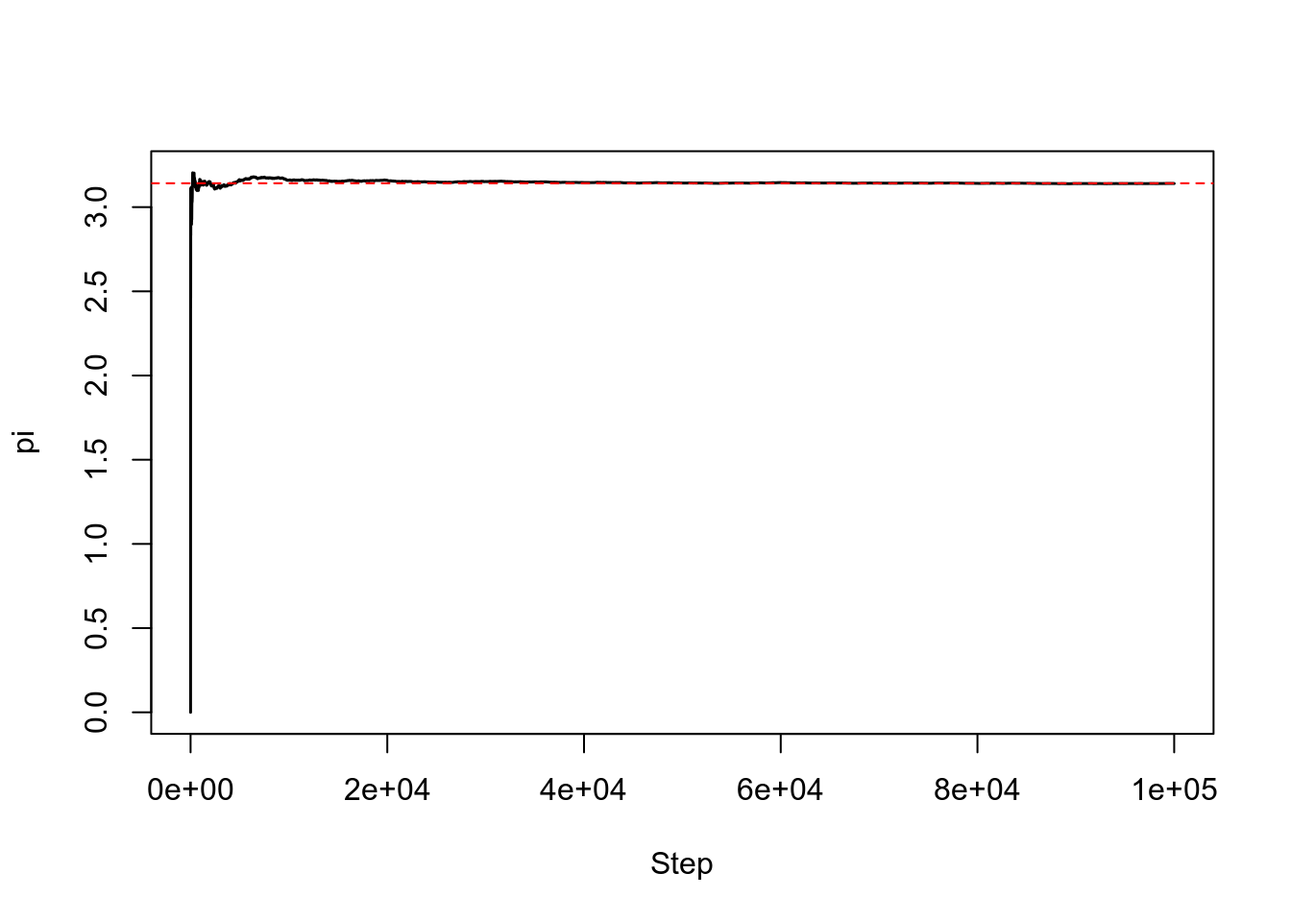
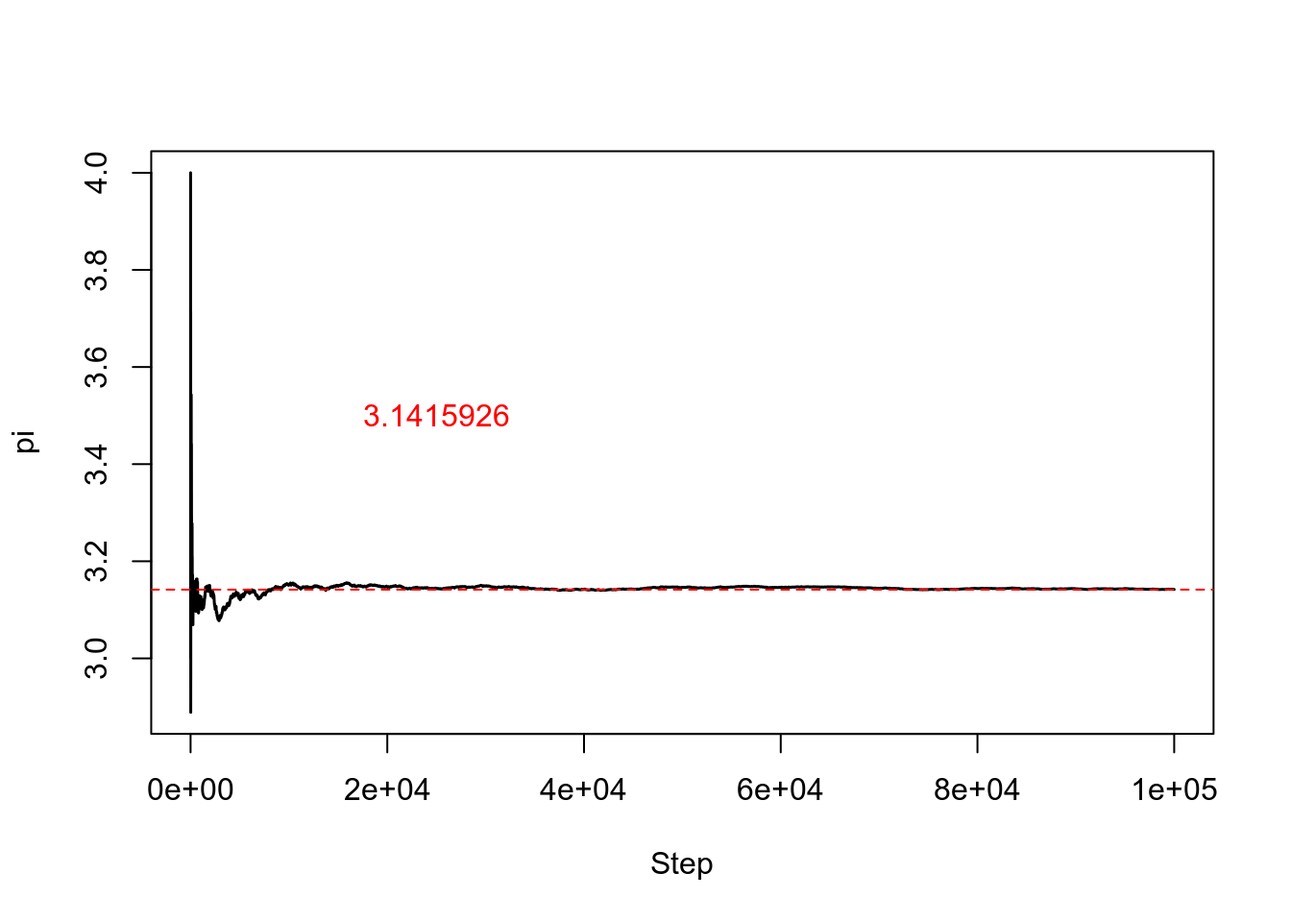
Update

diff --git a/docs/Section_02.html b/docs/Section_02.html
@@ -597,30 +597,39 @@ div.tocify {
 <div class="sourceCode" id="cb44"><pre class="sourceCode r"><code class="sourceCode r"><a class="sourceLine" id="cb44-1" data-line-number="1"><span class="co"># Print x</span></a>
 <a class="sourceLine" id="cb44-2" data-line-number="2">x</a></code></pre></div>
 <pre><code>## [1] 0.01</code></pre>
+<div class="sourceCode" id="cb46"><pre class="sourceCode r"><code class="sourceCode r"><a class="sourceLine" id="cb46-1" data-line-number="1"><span class="co"># Or use the function print()</span></a>
+<a class="sourceLine" id="cb46-2" data-line-number="2"><span class="kw">print</span>(x)</a></code></pre></div>
+<pre><code>## [1] 0.01</code></pre>
+<p>You can also assign a character to a variable</p>
+<div class="sourceCode" id="cb48"><pre class="sourceCode r"><code class="sourceCode r"><a class="sourceLine" id="cb48-1" data-line-number="1"><span class="co"># Print x</span></a>
+<a class="sourceLine" id="cb48-2" data-line-number="2">MyName &lt;-<span class="st"> &quot;SUSTech&quot;</span></a>
+<a class="sourceLine" id="cb48-3" data-line-number="3"><span class="co"># Or use the function print()</span></a>
+<a class="sourceLine" id="cb48-4" data-line-number="4"><span class="kw">print</span>(MyName)</a></code></pre></div>
+<pre><code>## [1] &quot;SUSTech&quot;</code></pre>
 <p>Look for the <strong>Environment</strong> window in the top right panel of RStudio, and you will see that <code>x</code> and its value have appeared. Our variable <code>x</code> can be used in place of a number in any calculation that expects a number:</p>
-<div class="sourceCode" id="cb46"><pre class="sourceCode r"><code class="sourceCode r"><a class="sourceLine" id="cb46-1" data-line-number="1"><span class="co"># Print x</span></a>
-<a class="sourceLine" id="cb46-2" data-line-number="2"><span class="kw">log10</span>(x)</a></code></pre></div>
+<div class="sourceCode" id="cb50"><pre class="sourceCode r"><code class="sourceCode r"><a class="sourceLine" id="cb50-1" data-line-number="1"><span class="co"># Print x</span></a>
+<a class="sourceLine" id="cb50-2" data-line-number="2"><span class="kw">log10</span>(x)</a></code></pre></div>
 <pre><code>## [1] -2</code></pre>
 <p>Notice also that variables can be reassigned:</p>
-<div class="sourceCode" id="cb48"><pre class="sourceCode r"><code class="sourceCode r"><a class="sourceLine" id="cb48-1" data-line-number="1"><span class="co"># Assignment</span></a>
-<a class="sourceLine" id="cb48-2" data-line-number="2">x &lt;-<span class="st"> </span><span class="dv">100</span></a></code></pre></div>
+<div class="sourceCode" id="cb52"><pre class="sourceCode r"><code class="sourceCode r"><a class="sourceLine" id="cb52-1" data-line-number="1"><span class="co"># Assignment</span></a>
+<a class="sourceLine" id="cb52-2" data-line-number="2">x &lt;-<span class="st"> </span><span class="dv">100</span></a></code></pre></div>
 <p><code>x</code> used to contain the value <code>0.01</code> and now it has the value <code>100</code>.</p>
 <p>Assignment values can contain the variable being assigned to:</p>
-<div class="sourceCode" id="cb49"><pre class="sourceCode r"><code class="sourceCode r"><a class="sourceLine" id="cb49-1" data-line-number="1"><span class="co"># Notice how RStudio updates its description of x on the top right tab</span></a>
-<a class="sourceLine" id="cb49-2" data-line-number="2">x &lt;-<span class="st"> </span>x <span class="op">+</span><span class="st"> </span><span class="dv">1</span> </a>
-<a class="sourceLine" id="cb49-3" data-line-number="3">y &lt;-<span class="st"> </span>x <span class="op">*</span><span class="st"> </span><span class="dv">2</span></a></code></pre></div>
+<div class="sourceCode" id="cb53"><pre class="sourceCode r"><code class="sourceCode r"><a class="sourceLine" id="cb53-1" data-line-number="1"><span class="co"># Notice how RStudio updates its description of x on the top right tab</span></a>
+<a class="sourceLine" id="cb53-2" data-line-number="2">x &lt;-<span class="st"> </span>x <span class="op">+</span><span class="st"> </span><span class="dv">1</span> </a>
+<a class="sourceLine" id="cb53-3" data-line-number="3">y &lt;-<span class="st"> </span>x <span class="op">*</span><span class="st"> </span><span class="dv">2</span></a></code></pre></div>
 <p>The right hand side of the assignment can be any valid R expression. The right hand side is <em>fully evaluated</em> before the assignment occurs.</p>
 <p>Variable names can contain letters, numbers, underscores and periods <strong>but no spaces</strong>. They must start with a letter or a period followed by a letter (they cannot start with a number nor an underscore). Variables begining with a period are hidden variables. Different people use different conventions for long variable names. Whatever you use is up to you, but be consistent.</p>
 </div>
 <div id="vectorization" class="section level2">
 <h2>Vectorization</h2>
-<p>One final thing to be aware of is that R is <em>vectorized</em>, meaning that variables and functions can have vectors as values. In contrast to physics and mathematics, a vector in R describes a set of values in a certain order of the same data type. For example</p>
-<div class="sourceCode" id="cb50"><pre class="sourceCode r"><code class="sourceCode r"><a class="sourceLine" id="cb50-1" data-line-number="1"><span class="dv">1</span><span class="op">:</span><span class="dv">10</span></a></code></pre></div>
+<p>One thing to be aware of is that R is <em>vectorized</em>, meaning that variables and functions can have vectors as values. In contrast to physics and mathematics, a vector in R describes a set of values in a certain order of the same data type. For example</p>
+<div class="sourceCode" id="cb54"><pre class="sourceCode r"><code class="sourceCode r"><a class="sourceLine" id="cb54-1" data-line-number="1"><span class="dv">1</span><span class="op">:</span><span class="dv">10</span></a></code></pre></div>
 <pre><code>##  [1]  1  2  3  4  5  6  7  8  9 10</code></pre>
-<div class="sourceCode" id="cb52"><pre class="sourceCode r"><code class="sourceCode r"><a class="sourceLine" id="cb52-1" data-line-number="1"><span class="dv">2</span><span class="op">^</span>(<span class="dv">1</span><span class="op">:</span><span class="dv">10</span>)</a></code></pre></div>
+<div class="sourceCode" id="cb56"><pre class="sourceCode r"><code class="sourceCode r"><a class="sourceLine" id="cb56-1" data-line-number="1"><span class="dv">2</span><span class="op">^</span>(<span class="dv">1</span><span class="op">:</span><span class="dv">10</span>)</a></code></pre></div>
 <pre><code>##  [1]    2    4    8   16   32   64  128  256  512 1024</code></pre>
-<div class="sourceCode" id="cb54"><pre class="sourceCode r"><code class="sourceCode r"><a class="sourceLine" id="cb54-1" data-line-number="1">x &lt;-<span class="st"> </span><span class="dv">1</span><span class="op">:</span><span class="dv">10</span></a>
-<a class="sourceLine" id="cb54-2" data-line-number="2"><span class="dv">2</span><span class="op">^</span>x</a></code></pre></div>
+<div class="sourceCode" id="cb58"><pre class="sourceCode r"><code class="sourceCode r"><a class="sourceLine" id="cb58-1" data-line-number="1">x &lt;-<span class="st"> </span><span class="dv">1</span><span class="op">:</span><span class="dv">10</span></a>
+<a class="sourceLine" id="cb58-2" data-line-number="2"><span class="dv">2</span><span class="op">^</span>x</a></code></pre></div>
 <pre><code>##  [1]    2    4    8   16   32   64  128  256  512 1024</code></pre>
 <p>This is incredibly powerful; we will discuss this further in an upcoming lesson.</p>
 </div>
@@ -628,13 +637,147 @@ div.tocify {
 <h2>Managing your environment</h2>
 <p>There are a few useful commands you can use to interact with the R session.</p>
 <p><code>ls</code> will list all of the variables and functions stored in the global environment (your working R session):</p>
-<div class="sourceCode" id="cb56"><pre class="sourceCode r"><code class="sourceCode r"><a class="sourceLine" id="cb56-1" data-line-number="1"><span class="kw">ls</span>()</a></code></pre></div>
-<pre><code>## [1] &quot;Results&quot;    &quot;Simulation&quot; &quot;TotalDraw&quot;  &quot;x&quot;          &quot;y&quot;</code></pre>
+<div class="sourceCode" id="cb60"><pre class="sourceCode r"><code class="sourceCode r"><a class="sourceLine" id="cb60-1" data-line-number="1"><span class="kw">ls</span>()</a></code></pre></div>
+<pre><code>## [1] &quot;MyName&quot;     &quot;Results&quot;    &quot;Simulation&quot; &quot;TotalDraw&quot;  &quot;x&quot;          &quot;y&quot;</code></pre>
 <p>Note here that we didn’t give any arguments to <code>ls</code>, but we still needed to give the parentheses to tell R to call the function.</p>
 <p>You can use <code>rm</code> to delete objects you no longer need:</p>
-<div class="sourceCode" id="cb58"><pre class="sourceCode r"><code class="sourceCode r"><a class="sourceLine" id="cb58-1" data-line-number="1"><span class="kw">rm</span>(x)</a>
-<a class="sourceLine" id="cb58-2" data-line-number="2"><span class="kw">ls</span>()</a></code></pre></div>
-<pre><code>## [1] &quot;Results&quot;    &quot;Simulation&quot; &quot;TotalDraw&quot;  &quot;y&quot;</code></pre>
+<div class="sourceCode" id="cb62"><pre class="sourceCode r"><code class="sourceCode r"><a class="sourceLine" id="cb62-1" data-line-number="1"><span class="kw">rm</span>(x)</a>
+<a class="sourceLine" id="cb62-2" data-line-number="2"><span class="kw">ls</span>()</a></code></pre></div>
+<pre><code>## [1] &quot;MyName&quot;     &quot;Results&quot;    &quot;Simulation&quot; &quot;TotalDraw&quot;  &quot;y&quot;</code></pre>
+</div>
+<div id="conditional-statements" class="section level2">
+<h2>Conditional statements</h2>
+<p>Often when we’re coding we want to control the flow of our actions. This can be done by setting actions to occur only if a condition or a set of conditions are met. Alternatively, we can also set an action to occur a particular number of times.</p>
+<p>There are several ways you can control flow in R. For conditional statements, the most commonly used approaches are the <code>if</code> and <code>else</code> constructs.</p>
+<div class="sourceCode" id="cb64"><pre class="sourceCode r"><code class="sourceCode r"><a class="sourceLine" id="cb64-1" data-line-number="1">x &lt;-<span class="st"> </span><span class="dv">5</span></a>
+<a class="sourceLine" id="cb64-2" data-line-number="2"></a>
+<a class="sourceLine" id="cb64-3" data-line-number="3"><span class="cf">if</span> (x <span class="op">&gt;=</span><span class="st"> </span><span class="dv">10</span>) { <span class="co"># If this condition is TRUE</span></a>
+<a class="sourceLine" id="cb64-4" data-line-number="4">  <span class="co"># Do following</span></a>
+<a class="sourceLine" id="cb64-5" data-line-number="5">  <span class="kw">print</span>(<span class="st">&quot;x is greater than or equal to 10&quot;</span>)</a>
+<a class="sourceLine" id="cb64-6" data-line-number="6">} <span class="co"># End of if statement</span></a>
+<a class="sourceLine" id="cb64-7" data-line-number="7"></a>
+<a class="sourceLine" id="cb64-8" data-line-number="8">x</a></code></pre></div>
+<pre><code>## [1] 5</code></pre>
+<p>The print statement does not appear in the console because <code>x</code> is not greater than <code>10</code>. To print a different message for numbers less than <code>10</code>, we can add an else statement.</p>
+<div class="sourceCode" id="cb66"><pre class="sourceCode r"><code class="sourceCode r"><a class="sourceLine" id="cb66-1" data-line-number="1">x &lt;-<span class="st"> </span><span class="dv">5</span></a>
+<a class="sourceLine" id="cb66-2" data-line-number="2"></a>
+<a class="sourceLine" id="cb66-3" data-line-number="3"><span class="cf">if</span> (x <span class="op">&gt;=</span><span class="st"> </span><span class="dv">10</span>) {</a>
+<a class="sourceLine" id="cb66-4" data-line-number="4">  <span class="kw">print</span>(<span class="st">&quot;x is greater than or equal to 10&quot;</span>)</a>
+<a class="sourceLine" id="cb66-5" data-line-number="5">} <span class="cf">else</span> {</a>
+<a class="sourceLine" id="cb66-6" data-line-number="6">  <span class="kw">print</span>(<span class="st">&quot;x is less than 10&quot;</span>)</a>
+<a class="sourceLine" id="cb66-7" data-line-number="7">}</a></code></pre></div>
+<pre><code>## [1] &quot;x is less than 10&quot;</code></pre>
+<p>You can also test multiple conditions by using <code>else if</code>.</p>
+<div class="sourceCode" id="cb68"><pre class="sourceCode r"><code class="sourceCode r"><a class="sourceLine" id="cb68-1" data-line-number="1">x &lt;-<span class="st"> </span><span class="dv">5</span></a>
+<a class="sourceLine" id="cb68-2" data-line-number="2"></a>
+<a class="sourceLine" id="cb68-3" data-line-number="3"><span class="cf">if</span> (x <span class="op">&gt;=</span><span class="st"> </span><span class="dv">10</span>) {</a>
+<a class="sourceLine" id="cb68-4" data-line-number="4">  <span class="kw">print</span>(<span class="st">&quot;x is greater than or equal to 10&quot;</span>)</a>
+<a class="sourceLine" id="cb68-5" data-line-number="5">} <span class="cf">else</span> <span class="cf">if</span> (x <span class="op">&gt;</span><span class="st"> </span><span class="dv">3</span>) {</a>
+<a class="sourceLine" id="cb68-6" data-line-number="6">  <span class="kw">print</span>(<span class="st">&quot;x is greater than 3, but less than 10&quot;</span>)</a>
+<a class="sourceLine" id="cb68-7" data-line-number="7">} <span class="cf">else</span> {</a>
+<a class="sourceLine" id="cb68-8" data-line-number="8">  <span class="kw">print</span>(<span class="st">&quot;x is less or equal than 3&quot;</span>)</a>
+<a class="sourceLine" id="cb68-9" data-line-number="9">}</a></code></pre></div>
+<pre><code>## [1] &quot;x is greater than 3, but less than 10&quot;</code></pre>
+<p><strong>Important</strong>: when R evaluates the condition inside <code>if()</code> statements, it is looking for a logical element, i.e., <code>TRUE</code> or <code>FALSE</code>. This can cause some headaches for beginners. For example:</p>
+<div class="sourceCode" id="cb70"><pre class="sourceCode r"><code class="sourceCode r"><a class="sourceLine" id="cb70-1" data-line-number="1">x  &lt;-<span class="st">  </span><span class="dv">4</span> <span class="op">==</span><span class="st"> </span><span class="dv">3</span></a>
+<a class="sourceLine" id="cb70-2" data-line-number="2"><span class="cf">if</span> (x) {</a>
+<a class="sourceLine" id="cb70-3" data-line-number="3">  <span class="st">&quot;4 equals 3&quot;</span></a>
+<a class="sourceLine" id="cb70-4" data-line-number="4">} <span class="cf">else</span> {</a>
+<a class="sourceLine" id="cb70-5" data-line-number="5">  <span class="st">&quot;4 does not equal 3&quot;</span>          </a>
+<a class="sourceLine" id="cb70-6" data-line-number="6">}</a></code></pre></div>
+<pre><code>## [1] &quot;4 does not equal 3&quot;</code></pre>
+</div>
+<div id="repeating-operations" class="section level2">
+<h2>Repeating operations</h2>
+<p>If you want to iterate over a set of values, when the order of iteration is important, and perform the same operation on each, a <code>for()</code> loop will do the job. This is the most flexible of looping operations, but therefore also the hardest to use correctly. In general, the advice of many R users would be to learn about <code>for()</code> loops, but to avoid using <code>for()</code> loops unless the order of iteration is important: i.e. the calculation at each iteration depends on the results of previous iterations.</p>
+<div class="sourceCode" id="cb72"><pre class="sourceCode r"><code class="sourceCode r"><a class="sourceLine" id="cb72-1" data-line-number="1"><span class="cf">for</span> (i <span class="cf">in</span> <span class="dv">1</span><span class="op">:</span><span class="dv">5</span>) { <span class="co"># If this condition is TRUE</span></a>
+<a class="sourceLine" id="cb72-2" data-line-number="2">  <span class="co"># Do following</span></a>
+<a class="sourceLine" id="cb72-3" data-line-number="3">  <span class="kw">print</span>(i)</a>
+<a class="sourceLine" id="cb72-4" data-line-number="4">} <span class="co"># End of the for loop</span></a></code></pre></div>
+<pre><code>## [1] 1
+## [1] 2
+## [1] 3
+## [1] 4
+## [1] 5</code></pre>
+<p>We can use a for() loop nested within another for() loop to iterate over two things at once.</p>
+<div class="sourceCode" id="cb74"><pre class="sourceCode r"><code class="sourceCode r"><a class="sourceLine" id="cb74-1" data-line-number="1"><span class="cf">for</span> (i <span class="cf">in</span> <span class="dv">1</span><span class="op">:</span><span class="dv">5</span>) {</a>
+<a class="sourceLine" id="cb74-2" data-line-number="2">  <span class="cf">for</span> (j <span class="cf">in</span> <span class="kw">c</span>(<span class="st">&#39;a&#39;</span>, <span class="st">&#39;b&#39;</span>, <span class="st">&#39;c&#39;</span>, <span class="st">&#39;d&#39;</span>, <span class="st">&#39;e&#39;</span>)) {</a>
+<a class="sourceLine" id="cb74-3" data-line-number="3">    <span class="kw">print</span>(<span class="kw">paste</span>(i,j))</a>
+<a class="sourceLine" id="cb74-4" data-line-number="4">  }</a>
+<a class="sourceLine" id="cb74-5" data-line-number="5">}</a></code></pre></div>
+<pre><code>## [1] &quot;1 a&quot;
+## [1] &quot;1 b&quot;
+## [1] &quot;1 c&quot;
+## [1] &quot;1 d&quot;
+## [1] &quot;1 e&quot;
+## [1] &quot;2 a&quot;
+## [1] &quot;2 b&quot;
+## [1] &quot;2 c&quot;
+## [1] &quot;2 d&quot;
+## [1] &quot;2 e&quot;
+## [1] &quot;3 a&quot;
+## [1] &quot;3 b&quot;
+## [1] &quot;3 c&quot;
+## [1] &quot;3 d&quot;
+## [1] &quot;3 e&quot;
+## [1] &quot;4 a&quot;
+## [1] &quot;4 b&quot;
+## [1] &quot;4 c&quot;
+## [1] &quot;4 d&quot;
+## [1] &quot;4 e&quot;
+## [1] &quot;5 a&quot;
+## [1] &quot;5 b&quot;
+## [1] &quot;5 c&quot;
+## [1] &quot;5 d&quot;
+## [1] &quot;5 e&quot;</code></pre>
+<p>We notice in the output that when the first index (<code>i</code>) is set to <code>1</code>, the second index (<code>j</code>) iterates through its full set of indices. Once the indices of <code>j</code> have been iterated through, then <code>i</code> is incremented. This process continues until the last index has been used for each <code>for()</code> loop.</p>
+<p>Rather than printing the results, we could write the loop output to a new object.</p>
+<div class="sourceCode" id="cb76"><pre class="sourceCode r"><code class="sourceCode r"><a class="sourceLine" id="cb76-1" data-line-number="1">output_vector &lt;-<span class="st"> </span><span class="kw">c</span>()</a>
+<a class="sourceLine" id="cb76-2" data-line-number="2"><span class="cf">for</span> (i <span class="cf">in</span> <span class="dv">1</span><span class="op">:</span><span class="dv">5</span>) {</a>
+<a class="sourceLine" id="cb76-3" data-line-number="3">  <span class="cf">for</span> (j <span class="cf">in</span> <span class="kw">c</span>(<span class="st">&#39;a&#39;</span>, <span class="st">&#39;b&#39;</span>, <span class="st">&#39;c&#39;</span>, <span class="st">&#39;d&#39;</span>, <span class="st">&#39;e&#39;</span>)) {</a>
+<a class="sourceLine" id="cb76-4" data-line-number="4">    temp_output &lt;-<span class="st"> </span><span class="kw">paste</span>(i, j)</a>
+<a class="sourceLine" id="cb76-5" data-line-number="5">    output_vector &lt;-<span class="st"> </span><span class="kw">c</span>(output_vector, temp_output)</a>
+<a class="sourceLine" id="cb76-6" data-line-number="6">  }</a>
+<a class="sourceLine" id="cb76-7" data-line-number="7">}</a>
+<a class="sourceLine" id="cb76-8" data-line-number="8">output_vector</a></code></pre></div>
+<pre><code>##  [1] &quot;1 a&quot; &quot;1 b&quot; &quot;1 c&quot; &quot;1 d&quot; &quot;1 e&quot; &quot;2 a&quot; &quot;2 b&quot; &quot;2 c&quot; &quot;2 d&quot; &quot;2 e&quot; &quot;3 a&quot; &quot;3 b&quot; &quot;3 c&quot; &quot;3 d&quot; &quot;3 e&quot; &quot;4 a&quot; &quot;4 b&quot; &quot;4 c&quot; &quot;4 d&quot; &quot;4 e&quot; &quot;5 a&quot; &quot;5 b&quot; &quot;5 c&quot; &quot;5 d&quot;
+## [25] &quot;5 e&quot;</code></pre>
+<p>This approach can be useful, but ‘growing your results’ (building the result object incrementally) is <strong>computationally inefficient</strong>, so avoid it when you are iterating through a lot of values. Here <code>c()</code> means “combine”:</p>
+<div class="sourceCode" id="cb78"><pre class="sourceCode r"><code class="sourceCode r"><a class="sourceLine" id="cb78-1" data-line-number="1">x &lt;-<span class="st"> </span><span class="dv">1</span></a>
+<a class="sourceLine" id="cb78-2" data-line-number="2">y &lt;-<span class="st"> </span><span class="dv">2</span></a>
+<a class="sourceLine" id="cb78-3" data-line-number="3">z &lt;-<span class="st"> </span><span class="kw">c</span>(x, y)</a>
+<a class="sourceLine" id="cb78-4" data-line-number="4">z</a></code></pre></div>
+<pre><code>## [1] 1 2</code></pre>
+<p><strong>Important</strong>: One of the biggest things that trips up novices and experienced R users alike, is building a results object (vector, list, matrix, data frame) as your for loop progresses. Computers are very bad at handling this, so your calculations can very quickly slow to a crawl. It’s much better to define an <strong>empty results</strong> object before hand of appropriate dimensions, rather than initializing an empty object without dimensions. So if you know the end result will be stored in a matrix like above, create an empty matrix with 5 row and 5 columns, then at each iteration store the results in the appropriate location.</p>
+<div class="sourceCode" id="cb80"><pre class="sourceCode r"><code class="sourceCode r"><a class="sourceLine" id="cb80-1" data-line-number="1">output_matrix &lt;-<span class="st"> </span><span class="kw">matrix</span>(<span class="dt">nrow=</span><span class="dv">5</span>, <span class="dt">ncol=</span><span class="dv">5</span>)</a>
+<a class="sourceLine" id="cb80-2" data-line-number="2">j_vector &lt;-<span class="st"> </span><span class="kw">c</span>(<span class="st">&#39;a&#39;</span>, <span class="st">&#39;b&#39;</span>, <span class="st">&#39;c&#39;</span>, <span class="st">&#39;d&#39;</span>, <span class="st">&#39;e&#39;</span>)</a>
+<a class="sourceLine" id="cb80-3" data-line-number="3"><span class="cf">for</span> (i <span class="cf">in</span> <span class="dv">1</span><span class="op">:</span><span class="dv">5</span>) {</a>
+<a class="sourceLine" id="cb80-4" data-line-number="4">  <span class="cf">for</span> (j <span class="cf">in</span> <span class="dv">1</span><span class="op">:</span><span class="dv">5</span>) {</a>
+<a class="sourceLine" id="cb80-5" data-line-number="5">    temp_j_value &lt;-<span class="st"> </span>j_vector[j]</a>
+<a class="sourceLine" id="cb80-6" data-line-number="6">    temp_output &lt;-<span class="st"> </span><span class="kw">paste</span>(i, temp_j_value)</a>
+<a class="sourceLine" id="cb80-7" data-line-number="7">    output_matrix[i, j] &lt;-<span class="st"> </span>temp_output</a>
+<a class="sourceLine" id="cb80-8" data-line-number="8">  }</a>
+<a class="sourceLine" id="cb80-9" data-line-number="9">}</a>
+<a class="sourceLine" id="cb80-10" data-line-number="10">output_vector2 &lt;-<span class="st"> </span><span class="kw">as.vector</span>(output_matrix)</a>
+<a class="sourceLine" id="cb80-11" data-line-number="11">output_vector2</a></code></pre></div>
+<pre><code>##  [1] &quot;1 a&quot; &quot;2 a&quot; &quot;3 a&quot; &quot;4 a&quot; &quot;5 a&quot; &quot;1 b&quot; &quot;2 b&quot; &quot;3 b&quot; &quot;4 b&quot; &quot;5 b&quot; &quot;1 c&quot; &quot;2 c&quot; &quot;3 c&quot; &quot;4 c&quot; &quot;5 c&quot; &quot;1 d&quot; &quot;2 d&quot; &quot;3 d&quot; &quot;4 d&quot; &quot;5 d&quot; &quot;1 e&quot; &quot;2 e&quot; &quot;3 e&quot; &quot;4 e&quot;
+## [25] &quot;5 e&quot;</code></pre>
+<p>Here we use <code>matrix()</code> to create an empty matrix with 5 rows and 5 columns, and use <code>as.vector()</code> to convert the 5x5 matrix into a vector.</p>
+<p>Sometimes you will find yourself needing to repeat an operation as long as a certain condition is met. You can do this with a <code>while()</code> loop.</p>
+<div class="sourceCode" id="cb82"><pre class="sourceCode r"><code class="sourceCode r"><a class="sourceLine" id="cb82-1" data-line-number="1">z &lt;-<span class="st"> </span><span class="dv">0</span></a>
+<a class="sourceLine" id="cb82-2" data-line-number="2"><span class="cf">while</span>(z <span class="op">&lt;=</span><span class="st"> </span><span class="dv">5</span> ){ <span class="co"># While this condition is TRUE</span></a>
+<a class="sourceLine" id="cb82-3" data-line-number="3">  <span class="co"># Do following</span></a>
+<a class="sourceLine" id="cb82-4" data-line-number="4">  z &lt;-<span class="st"> </span>z <span class="op">+</span><span class="st"> </span><span class="dv">1</span></a>
+<a class="sourceLine" id="cb82-5" data-line-number="5">  <span class="kw">print</span>(z)</a>
+<a class="sourceLine" id="cb82-6" data-line-number="6">} <span class="co"># End of the while loop</span></a></code></pre></div>
+<pre><code>## [1] 1
+## [1] 2
+## [1] 3
+## [1] 4
+## [1] 5
+## [1] 6</code></pre>
+<p>OK, can you figure out why the number <code>6</code> is also printed?</p>
+<p><code>while()</code> loops will not always be appropriate. You have to be <strong>particularly careful</strong> that you don’t end up stuck in an infinite loop because your condition is always met and hence the while statement never terminates.</p>
 </div>
 <div id="r-packages" class="section level2">
 <h2>R Packages</h2>
@@ -650,7 +793,11 @@ div.tocify {
 <p><img src="figs/packages.jpg" alt="drawing" width="800"/></p>
 <p>Clicking on this tab will displas all of installed packages with a checkbox next to them. If the box next to a package name is checked, the package is loaded and if it is empty, the package is not loaded. Click an empty box to load that package and click a checked box to detach that package.</p>
 <p>Packages can be installed and updated from the Package tab with the Install and Update buttons at the top of the tab.</p>
+<hr />
 </div>
+</div>
+<div id="in-class-exercises" class="section level1">
+<h1>In-class exercises</h1>
 </div>
 <div class="footnotes">
 <hr />

diff --git a/docs/Section_01.html b/docs/Section_01.html
@@ -710,7 +710,7 @@ div.tocify {
 <a class="sourceLine" id="cb2-7" data-line-number="7"><span class="kw">text</span>(<span class="fl">0.25</span><span class="op">*</span>TotalDraw,<span class="fl">3.5</span>,<span class="st">&quot;3.1415926&quot;</span>,<span class="dt">cex=</span><span class="dv">1</span>,<span class="dt">col=</span><span class="st">&quot;red&quot;</span>)</a></code></pre></div>
 <p><img src="Section_01_files/figure-html/unnamed-chunk-2-1.png" width="672" /></p>
 <div class="sourceCode" id="cb3"><pre class="sourceCode r"><code class="sourceCode r"><a class="sourceLine" id="cb3-1" data-line-number="1"><span class="kw">print</span>(<span class="kw">paste</span>(<span class="st">&quot;Mean Pi from the last 100 steps is: &quot;</span>,<span class="kw">mean</span>(Results[TotalDraw<span class="dv">-99</span><span class="op">:</span>TotalDraw])))</a></code></pre></div>
-<pre><code>## [1] &quot;Mean Pi from the last 100 steps is:  3.21329670590001&quot;</code></pre>
+<pre><code>## [1] &quot;Mean Pi from the last 100 steps is:  3.11398969655676&quot;</code></pre>
 <p>Simulation with 100,000 random points yields a better result</p>
 <div class="sourceCode" id="cb5"><pre class="sourceCode r"><code class="sourceCode r"><a class="sourceLine" id="cb5-1" data-line-number="1"><span class="co"># Draw 1E5 points</span></a>
 <a class="sourceLine" id="cb5-2" data-line-number="2">TotalDraw &lt;-<span class="st"> </span><span class="fl">1E5</span></a>
@@ -721,7 +721,7 @@ div.tocify {
 <a class="sourceLine" id="cb5-7" data-line-number="7"><span class="kw">text</span>(<span class="fl">0.25</span><span class="op">*</span>TotalDraw,<span class="fl">3.5</span>,<span class="st">&quot;3.1415926&quot;</span>,<span class="dt">cex=</span><span class="dv">1</span>,<span class="dt">col=</span><span class="st">&quot;red&quot;</span>)</a></code></pre></div>
 <p><img src="Section_01_files/figure-html/unnamed-chunk-3-1.png" width="672" /></p>
 <div class="sourceCode" id="cb6"><pre class="sourceCode r"><code class="sourceCode r"><a class="sourceLine" id="cb6-1" data-line-number="1"><span class="kw">print</span>(<span class="kw">paste</span>(<span class="st">&quot;Mean Pi from the last 100 steps is: &quot;</span>,<span class="kw">mean</span>(Results[TotalDraw<span class="dv">-99</span><span class="op">:</span>TotalDraw])))</a></code></pre></div>
-<pre><code>## [1] &quot;Mean Pi from the last 100 steps is:  3.14612274730773&quot;</code></pre>
+<pre><code>## [1] &quot;Mean Pi from the last 100 steps is:  3.14365155538209&quot;</code></pre>
 <hr />
 </div>
 </div>

diff --git a/docs/Syllabus.html b/docs/Syllabus.html
@@ -312,19 +312,19 @@ $(document).ready(function () {
 
 <p><strong>Computing and Programming for Environmental Research (ESE5023)</strong></p>
 <p><strong>Instructor:</strong><br />
-Lei Zhu<br />
+<strong>Lei Zhu</strong><br />
 <em>School of Environmental Science and Engineering<br />
 Office: 429, Taizhou Hall<br />
 Email: <a href="mailto:zhul3@sustech.edu.cn" class="email">zhul3@sustech.edu.cn</a><br />
 Phone: 0755-26601426<br />
 Office Hours: By appointment</em></p>
 <p><strong>Teaching Assistants (TAs):</strong><br />
-Ming Yang<br />
+<strong>Ming Yang</strong><br />
 <em>School of Environmental Science and Engineering<br />
 Office: 401-5, Taizhou Hall<br />
 Email: <a href="mailto:12031077@mail.sustech.edu.cn" class="email">12031077@mail.sustech.edu.cn</a><br />
 Office Hours: TBD</em></p>
-<p>Ao Ding<br />
+<p><strong>Ao Ding</strong><br />
 <em>School of Environmental Science and Engineering<br />
 Office: 506, Wisdom Valley #2<br />
 Email: <a href="mailto:12032748@mail.sustech.edu.cn" class="email">12032748@mail.sustech.edu.cn</a><br />
